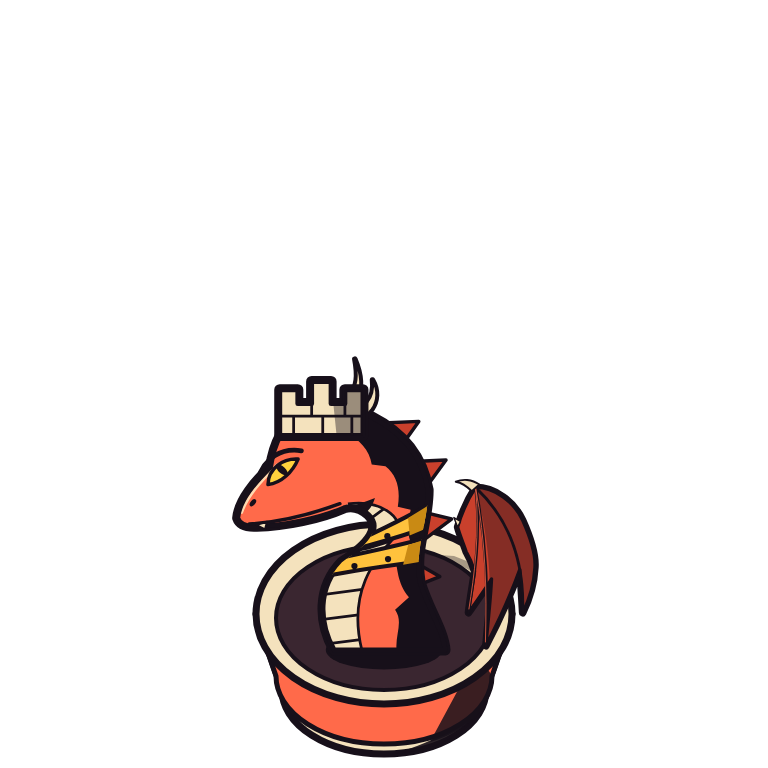
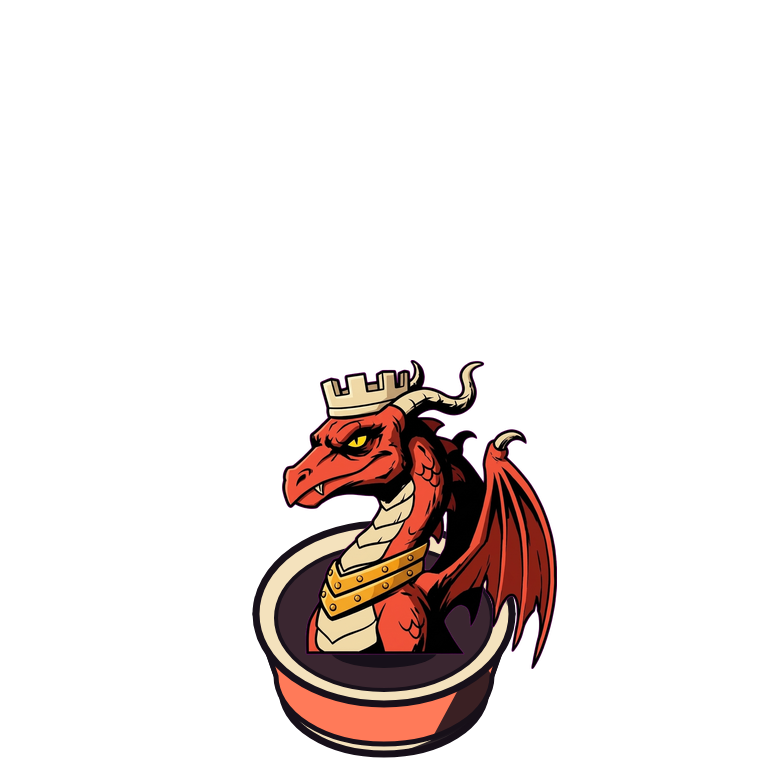
10.1.0: Gemini dragon sprites; art-src/composite.py pipeline (magenta key, chest-line alignment, shared cup)
Raw uploads moved to art-src/incoming/dragon; art/dragon now holds the processed 768x768 sprites.

Claude-Session: https://claude.ai/code/session_01YcRvipXLdSARSXJBNmnAqn

Changed region(s): [[0.2812, 0.4688, 0.75, 0.875]]

diff --git a/index.html b/index.html
@@ -83,7 +83,7 @@
 <div id="dbg"></div>
 <script>
 /* Diagnostics: any error shows at the bottom of the screen (tap to close) so it can be screenshotted on an iPhone */
-const APP_VERSION = 'v10.0.0';
+const APP_VERSION = 'v10.1.0';
 function reportError(e) {
   try { const el = document.getElementById('err'); el.textContent = '[' + APP_VERSION + '] ' + (e && e.message ? e.message : e) + (e && e.stack ? ' @ ' + String(e.stack).split('\n')[0] : ''); el.style.display = 'block'; } catch (x) {}
 }

diff --git a/sw.js b/sw.js
@@ -1,6 +1,6 @@
 // Sliding Cups service worker — makes the game playable offline.
 // Releases bump VERSION via node tools/release.js (matches package.json); old caches are deleted when the new worker activates.
-const VERSION = 'sc-10.0.0';
+const VERSION = 'sc-10.1.0';
 const SHELL = ['./', './index.html', './manifest.webmanifest', './icons/icon-192.png', './icons/icon-512.png', './icons/apple-touch-icon.png'];
 
 self.addEventListener('install', e => {

diff --git a/art-src/composite.py b/art-src/composite.py
@@ -1,0 +1,81 @@
+#!/usr/bin/env python3
+"""Turn raw Gemini creature busts into game sprites.
+Input : art-src/incoming/<kind>/<kind>_t<1..6>[_happy|_fast|_blink].png  (bust on a solid magenta background)
+Output: art/<kind>/… 768×768 PNGs — magenta keyed out with de-spill, scaled to the per-tier height budget,
+        placed on the shared vector cup (anchor (384,690), rim radius 128) so collisions and sizes stay exact.
+Usage : python3 art-src/composite.py <kind>        (needs Playwright + Chrome to render the cup once)
+All four expressions of a tier reuse the idle image's placement so they stay pixel-aligned."""
+import asyncio, glob, json, os, re, sys
+import numpy as np
+from PIL import Image
+from playwright.async_api import async_playwright
+
+HERE = os.path.dirname(os.path.abspath(__file__)); ROOT = os.path.dirname(HERE)
+KIND = sys.argv[1]
+R = [22, 28, 36, 46, 58, 72]                 # tier radii (CONFIG.tiers)
+H = [50, 70, 95, 120, 145, 170]              # in-game height per tier, world units (same budget as sizes.py)
+ANCHOR_Y, BASE_Y, CX = 690, 650, 384         # cup anchor, plinth line the bust stands on, centre x
+KEY = np.array([248, 1, 244], float)         # Gemini magenta
+SUFFIXES = ['', '_happy', '_fast', '_blink']
+
+def band_colour(kind):                       # creature colour for the cup band, read from CONFIG in index.html
+    html = open(os.path.join(ROOT, 'index.html'), encoding='utf-8').read()
+    m = re.search(r"id: '%s',[^}]*?body: '(#[0-9a-fA-F]{6})'" % kind, html)
+    return m.group(1) if m else '#ff6a4a'
+
+def cup_svg(colour):                         # shared cup + plinth, cut from the dragon's generated SVG
+    svg = open(os.path.join(HERE, 'out', 'dragon_t3.svg'), encoding='utf-8').read()
+    body = svg[svg.index('>') + 1:]
+    cup = body[:body.index('<ellipse cx="384" cy="650" rx="84"')]
+    plinth = '<ellipse cx="384" cy="650" rx="84" ry="28" fill="#17101a"/>'
+    return '<svg xmlns="http://www.w3.org/2000/svg" viewBox="0 0 768 768" width="768" height="768">' + cup.replace('#ff6a4a', colour) + plinth + '</svg>'
+
+async def render_cup(colour, path):
+    async with async_playwright() as p:
+        b = await p.chromium.launch(executable_path=os.environ.get('CHROME_PATH', '/usr/bin/google-chrome'), args=['--no-sandbox'])
+        pg = await b.new_page(viewport={'width': 768, 'height': 768})
+        await pg.set_content('<body style="margin:0;background:transparent">' + cup_svg(colour) + '</body>')
+        await pg.screenshot(path=path, omit_background=True); await b.close()
+
+def key_out(img):                            # magenta → alpha, then remove the magenta tint from edge pixels
+    a = np.asarray(img.convert('RGB'), float)
+    d = np.sqrt(((a - KEY) ** 2).sum(-1))
+    alpha = np.clip((d - 60) / 90, 0, 1)
+    al = np.maximum(alpha, 1e-3)[..., None]
+    rgb = np.clip((a - (1 - alpha)[..., None] * KEY) / al, 0, 255)
+    out = np.dstack([rgb, alpha * 255]).astype(np.uint8)
+    return Image.fromarray(out, 'RGBA')
+
+def placement(idle):
+    """bbox of the idle image + the chest cut line (lowest row that is still wide; wing tips may hang below it)."""
+    a = np.asarray(idle.getchannel('A')) > 128
+    ys = np.nonzero(a.any(1))[0]; xs = np.nonzero(a.any(0))[0]
+    widths = a.sum(1); base = int(np.nonzero(widths > 0.3 * widths.max())[0].max())
+    left = int(np.nonzero(a[base - 3:base + 1].any(0))[0][0])       # chest front edge on the cut line
+    return (int(xs[0]), int(ys[0]), int(xs[-1]) + 1, int(ys[-1]) + 1), base, left
+
+def main():
+    src = os.path.join(HERE, 'incoming', KIND); dst = os.path.join(ROOT, 'art', KIND); os.makedirs(dst, exist_ok=True)
+    cup_png = '/tmp/_cup_%s.png' % KIND; asyncio.run(render_cup(band_colour(KIND), cup_png)); cup = Image.open(cup_png).convert('RGBA')
+    for t in range(1, 7):
+        idle_path = os.path.join(src, '%s_t%d.png' % (KIND, t))
+        if not os.path.exists(idle_path): print('missing', idle_path); continue
+        box, base, left = placement(key_out(Image.open(idle_path)))
+        bw, bh = box[2] - box[0], box[3] - box[1]
+        top = ANCHOR_Y - H[t - 1] * 128 / R[t - 1]          # where the art's top edge must land
+        s = (BASE_Y - top) / (base - box[1])                  # top of art → chest cut line
+        s = min(s, 740 / bw)                                  # never wider than the canvas
+        for suf in SUFFIXES:
+            p = os.path.join(src, '%s_t%d%s.png' % (KIND, t, suf))
+            if not os.path.exists(p): p = idle_path
+            k = key_out(Image.open(p)).crop(box)
+            k = k.resize((max(1, round(bw * s)), max(1, round(bh * s))), Image.LANCZOS)
+            # chest front edge sits at CX-78 like the vector sprites (wings/manes extend right); t1 (egg / baby) is centred
+            x = round(CX - k.width / 2) if t == 1 else round(CX - 78 - (left - box[0]) * s)
+            y = round(BASE_Y + 4 - (base - box[1]) * s)
+            canvas = cup.copy()
+            canvas.alpha_composite(k, (x, y))
+            canvas.save(os.path.join(dst, '%s_t%d%s.png' % (KIND, t, suf)), optimize=True)
+        print('t%d scale %.3f' % (t, s))
+
+main()

diff --git a/CLAUDE.md b/CLAUDE.md
@@ -17,7 +17,7 @@ Single-player flick-and-merge web game for David's family (iPad first, PWA). Sam
 - `index.html` — game (core: CONFIG, Physics, Modes, Game, Flow, Profile; app: Storage, i18n, Sfx, Sprites, Renderer, Fx, events, UI).
 - `sw.js`, `manifest.webmanifest`, `icons/` — PWA.
 - `art/<kind>/<kind>_t1..6[_happy|_fast|_blink].png` — creature sprites (missing → procedural fallback).
-- `art-src/<kind>/build.js` — vector source for sprites; `art-src/sizes.py` (per-tier sizes), `art-src/render.py <kind> art/<kind>` (export).
+- `art-src/<kind>/build.js` — vector source for sprites; `art-src/sizes.py` (per-tier sizes), `art-src/render.py <kind> art/<kind>` (export). Gemini art: raw busts in `art-src/incoming/<kind>/`, then `python3 art-src/composite.py <kind>` (never put raw images in `art/`).
 - `tests/` — `npm test` (core, golden physics, i18n, version), `npm run test:e2e` (Playwright + Chrome).
 - Docs: `README.md`, `GAME_DESIGN.md`, `ARCHITECTURE.md`, `ASSET_SPEC.md`, `ART_STYLE.md`, `CHANGELOG.md`.
 
@@ -25,7 +25,7 @@ Single-player flick-and-merge web game for David's family (iPad first, PWA). Sam
 Open `index.html` locally, or serve the folder (`python3 -m http.server`) for the service worker. Deploy = push to `main` (GitHub Pages: https://jellyfruit.github.io/game-sliding-cups/).
 
 ## Current stage
-Gameplay complete (Classic / Practice / Levels, items, VP unlocks). Art: dragon + unicorn done, 5 creatures still procedural. Now: tuning feel and rules from David's playtests.
+Gameplay complete (Classic / Practice / Levels, items, VP unlocks). Art: dragon (Gemini) + unicorn (vector, Gemini replacement pending), 5 creatures still procedural. Now: tuning feel and rules from David's playtests.
 
 ## Decisions not to revisit
 - Stay 2.5D (no 3D renderer); art is pre-made sprites.

diff --git a/ASSET_SPEC.md b/ASSET_SPEC.md
@@ -4,6 +4,7 @@
 
 - **Dragon done (9.2.0)** and **unicorn done (9.3.0)**: generated as vectors by `art-src/<kind>/build.js` (Mignola style: thick silhouette line, hard black shadows, flat fills) and exported with `python3 art-src/render.py <kind> art/<kind>` — 24 PNGs per creature (6 tiers × idle / `_happy` / `_fast` / `_blink`).
 - **Sizes (9.3.0)**: per-tier creature scale (the part above the cup) lives in `art-src/sizes.json`, computed by `python3 art-src/sizes.py` so in-game heights rise H = [50, 70, 95, 120, 145, 170] world units; 170 for t6 is the cap. `layout()` reserves room above the table for a king at the far edge (`ART_TOP`).
+- **Gemini pipeline (10.1.0)**: the dragon is now drawn by Gemini (Nano Banana) from `art-src/GEMINI_PROMPTS.md`. Raw busts on magenta go in `art-src/incoming/<kind>/`; `python3 art-src/composite.py <kind>` keys out the magenta (with de-spill), finds the chest cut line, scales the bust to the same per-tier height budget, places the chest front at the cup centre − 78 px and composites it onto the shared vector cup, writing `art/<kind>/`. **Never upload raw images straight into `art/`** — that folder is live.
 - **Adding a creature**: write `art-src/<id>/build.js` → add the id to `KINDS` in `sizes.py` → run `sizes.py` → `node art-src/<id>/build.js` → `python3 art-src/render.py <id> art/<id>`.
 
 This spec says how art must be delivered so the game can use it — whoever draws it (Claude via code, or hand-drawn). Reference template: `art/template/tier_template.png` (anchor and collision guides).

diff --git a/ART_STYLE.md b/ART_STYLE.md
@@ -2,7 +2,7 @@
 
 **Status:** approved by David (dragon and unicorn shipped) · **Updated:** 2026-11-22
 Supersedes v0.2 ("cute realism", cel shading, procedural `sheet.html` sketch, full-size wings). `sheet.html` is kept only as an old reference.
-Source of truth for the look: `art-src/dragon/build.js` and `art-src/unicorn/build.js`.
+Source of truth for the look: `art-src/unicorn/build.js` and the Gemini dragon (10.1.0, `art-src/incoming/dragon/`), which follows the same rules with richer detail. Creatures are moving to Gemini art via `art-src/GEMINI_PROMPTS.md` + `art-src/composite.py`.
 
 ## 1. Structure
 

diff --git a/CHANGELOG.md b/CHANGELOG.md
@@ -6,6 +6,9 @@ Versioning (`major.minor.patch`):
 - **major**: new mode, new core mechanic (e.g. items, special tables, obstacles), big physics change.
 - Doc/test-only changes don't release. Release with `node tools/release.js patch|minor|major -m "..."`.
 
+## 10.1.0 — 2026-11-23 (minor)
+- Dragon art replaced with Gemini-drawn sprites (6 tiers × 4 expressions), composited onto the shared cup by art-src/composite.py
+
 ## 10.0.0 — 2026-11-23 (major)
 - Rule additions: difficulty ramp (pressure levels), skill bonuses (bank shot / long shot / double), checkmate shockwave, crowding rule. Added CLAUDE.md.
 
